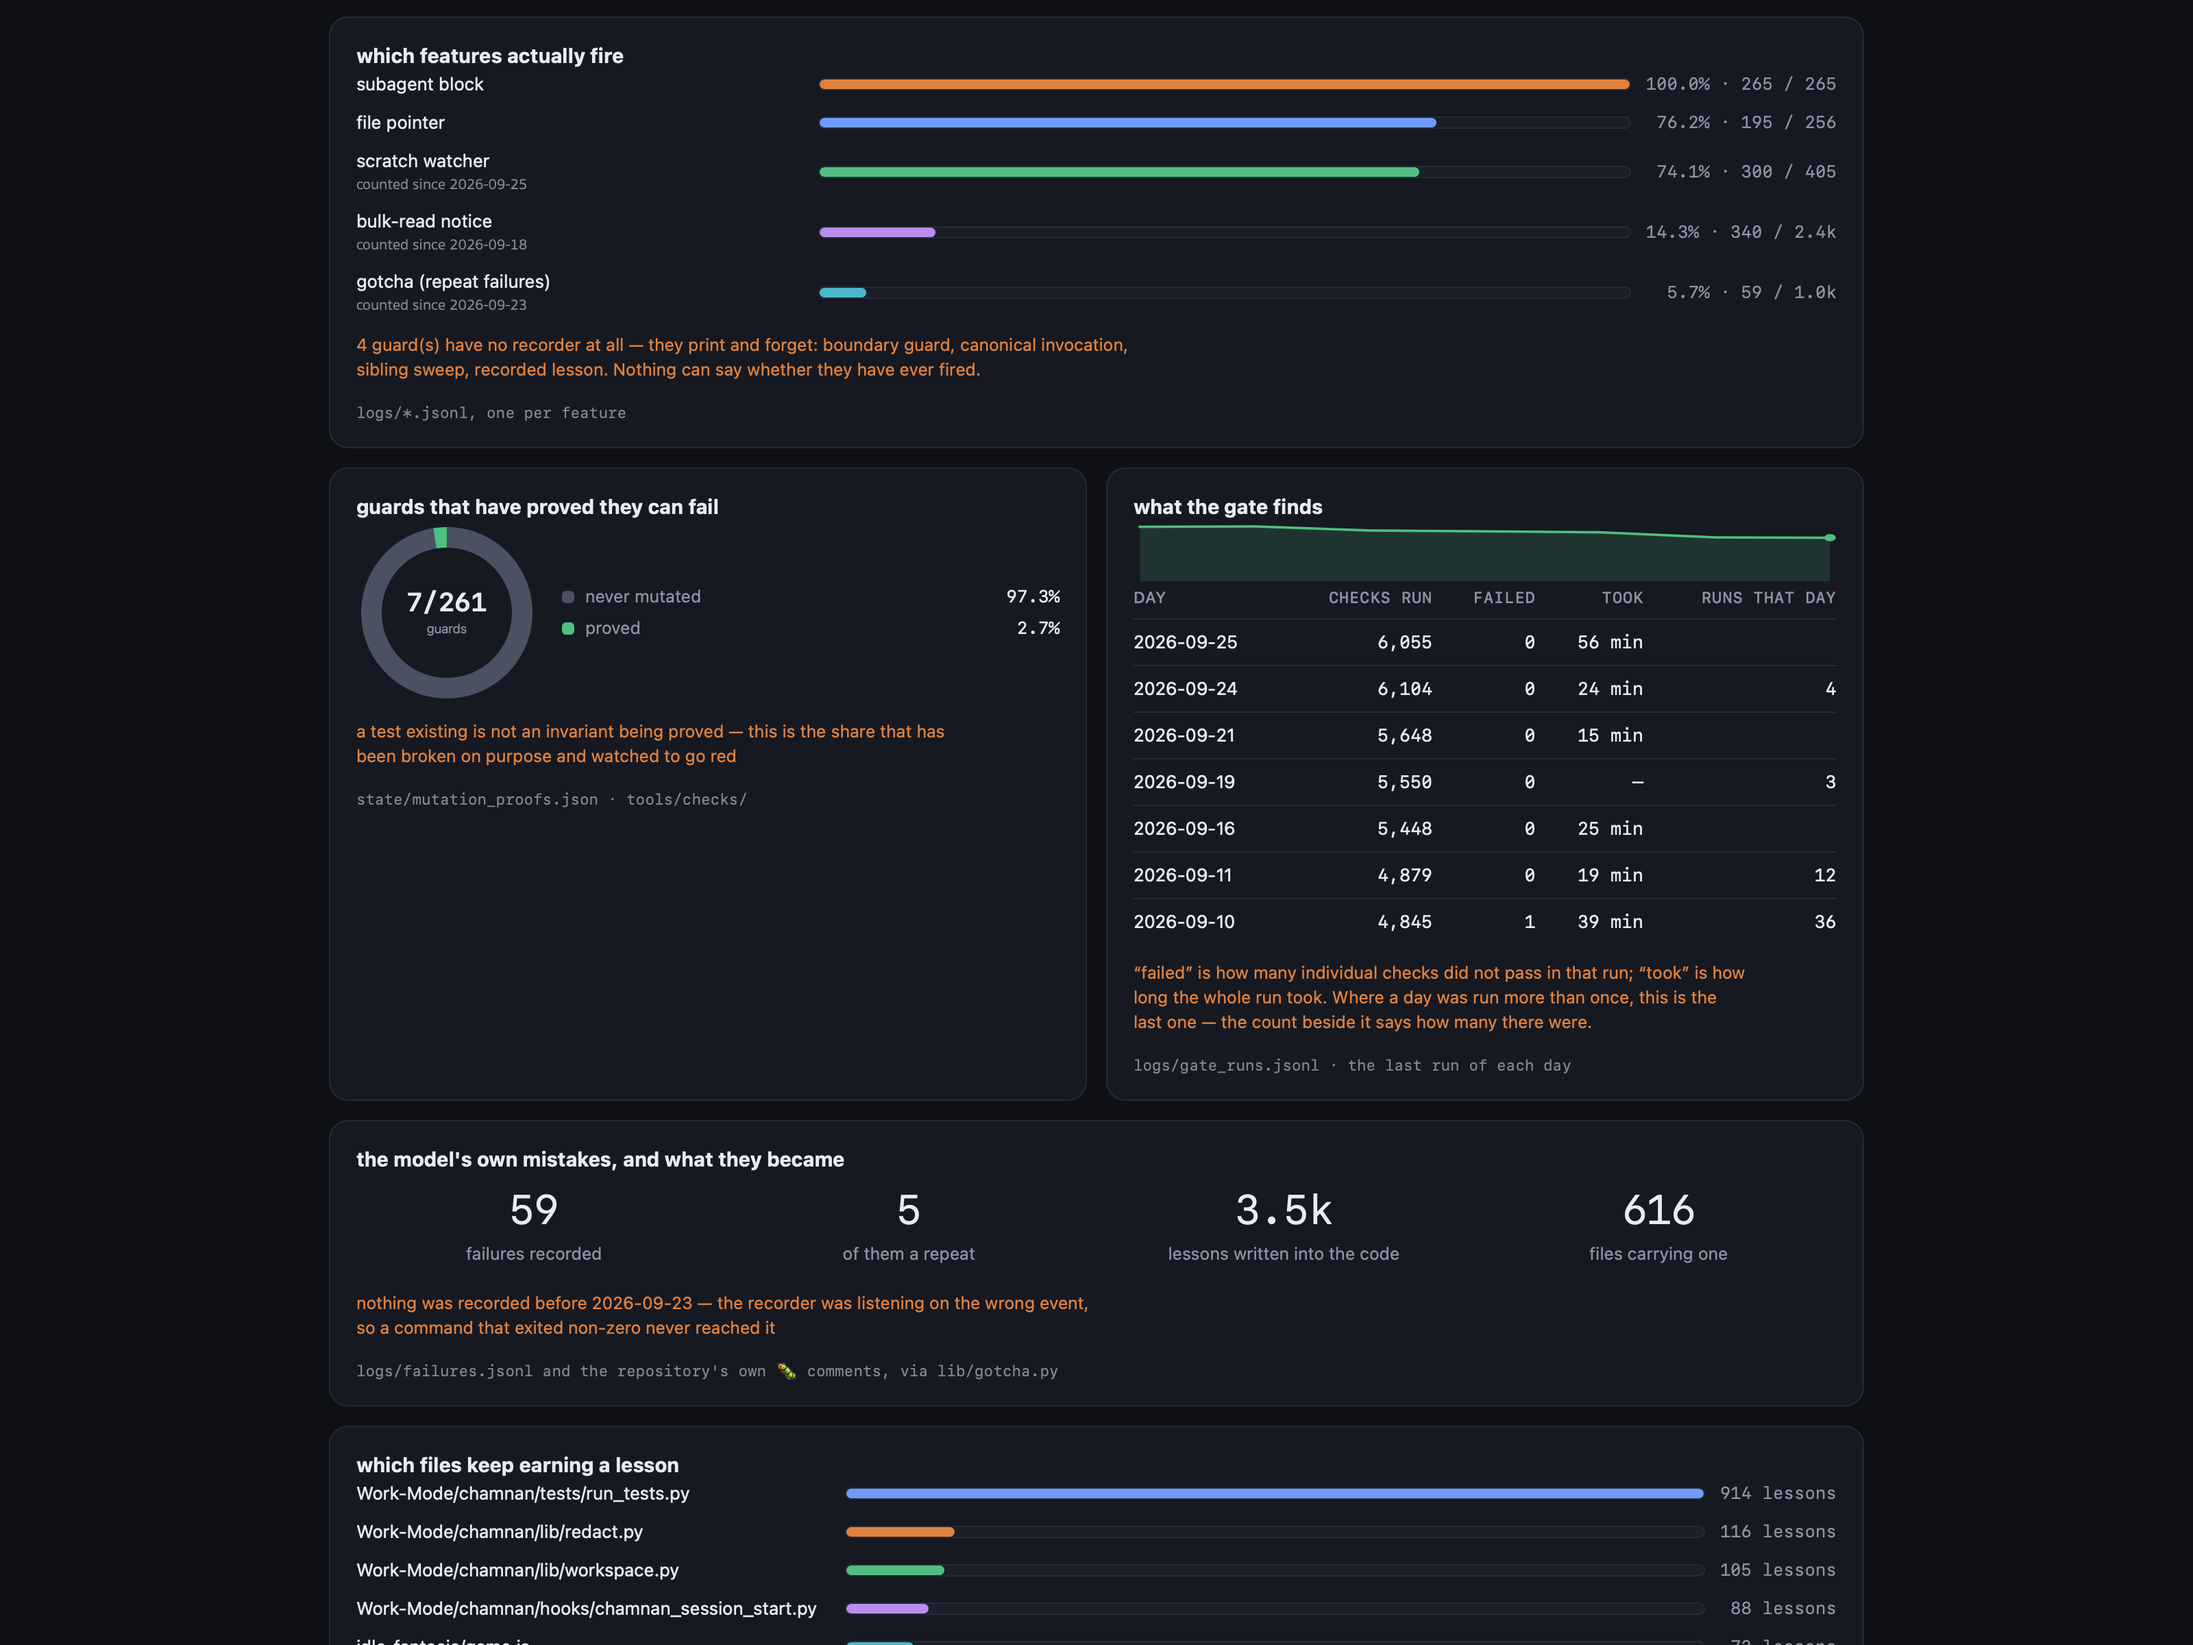
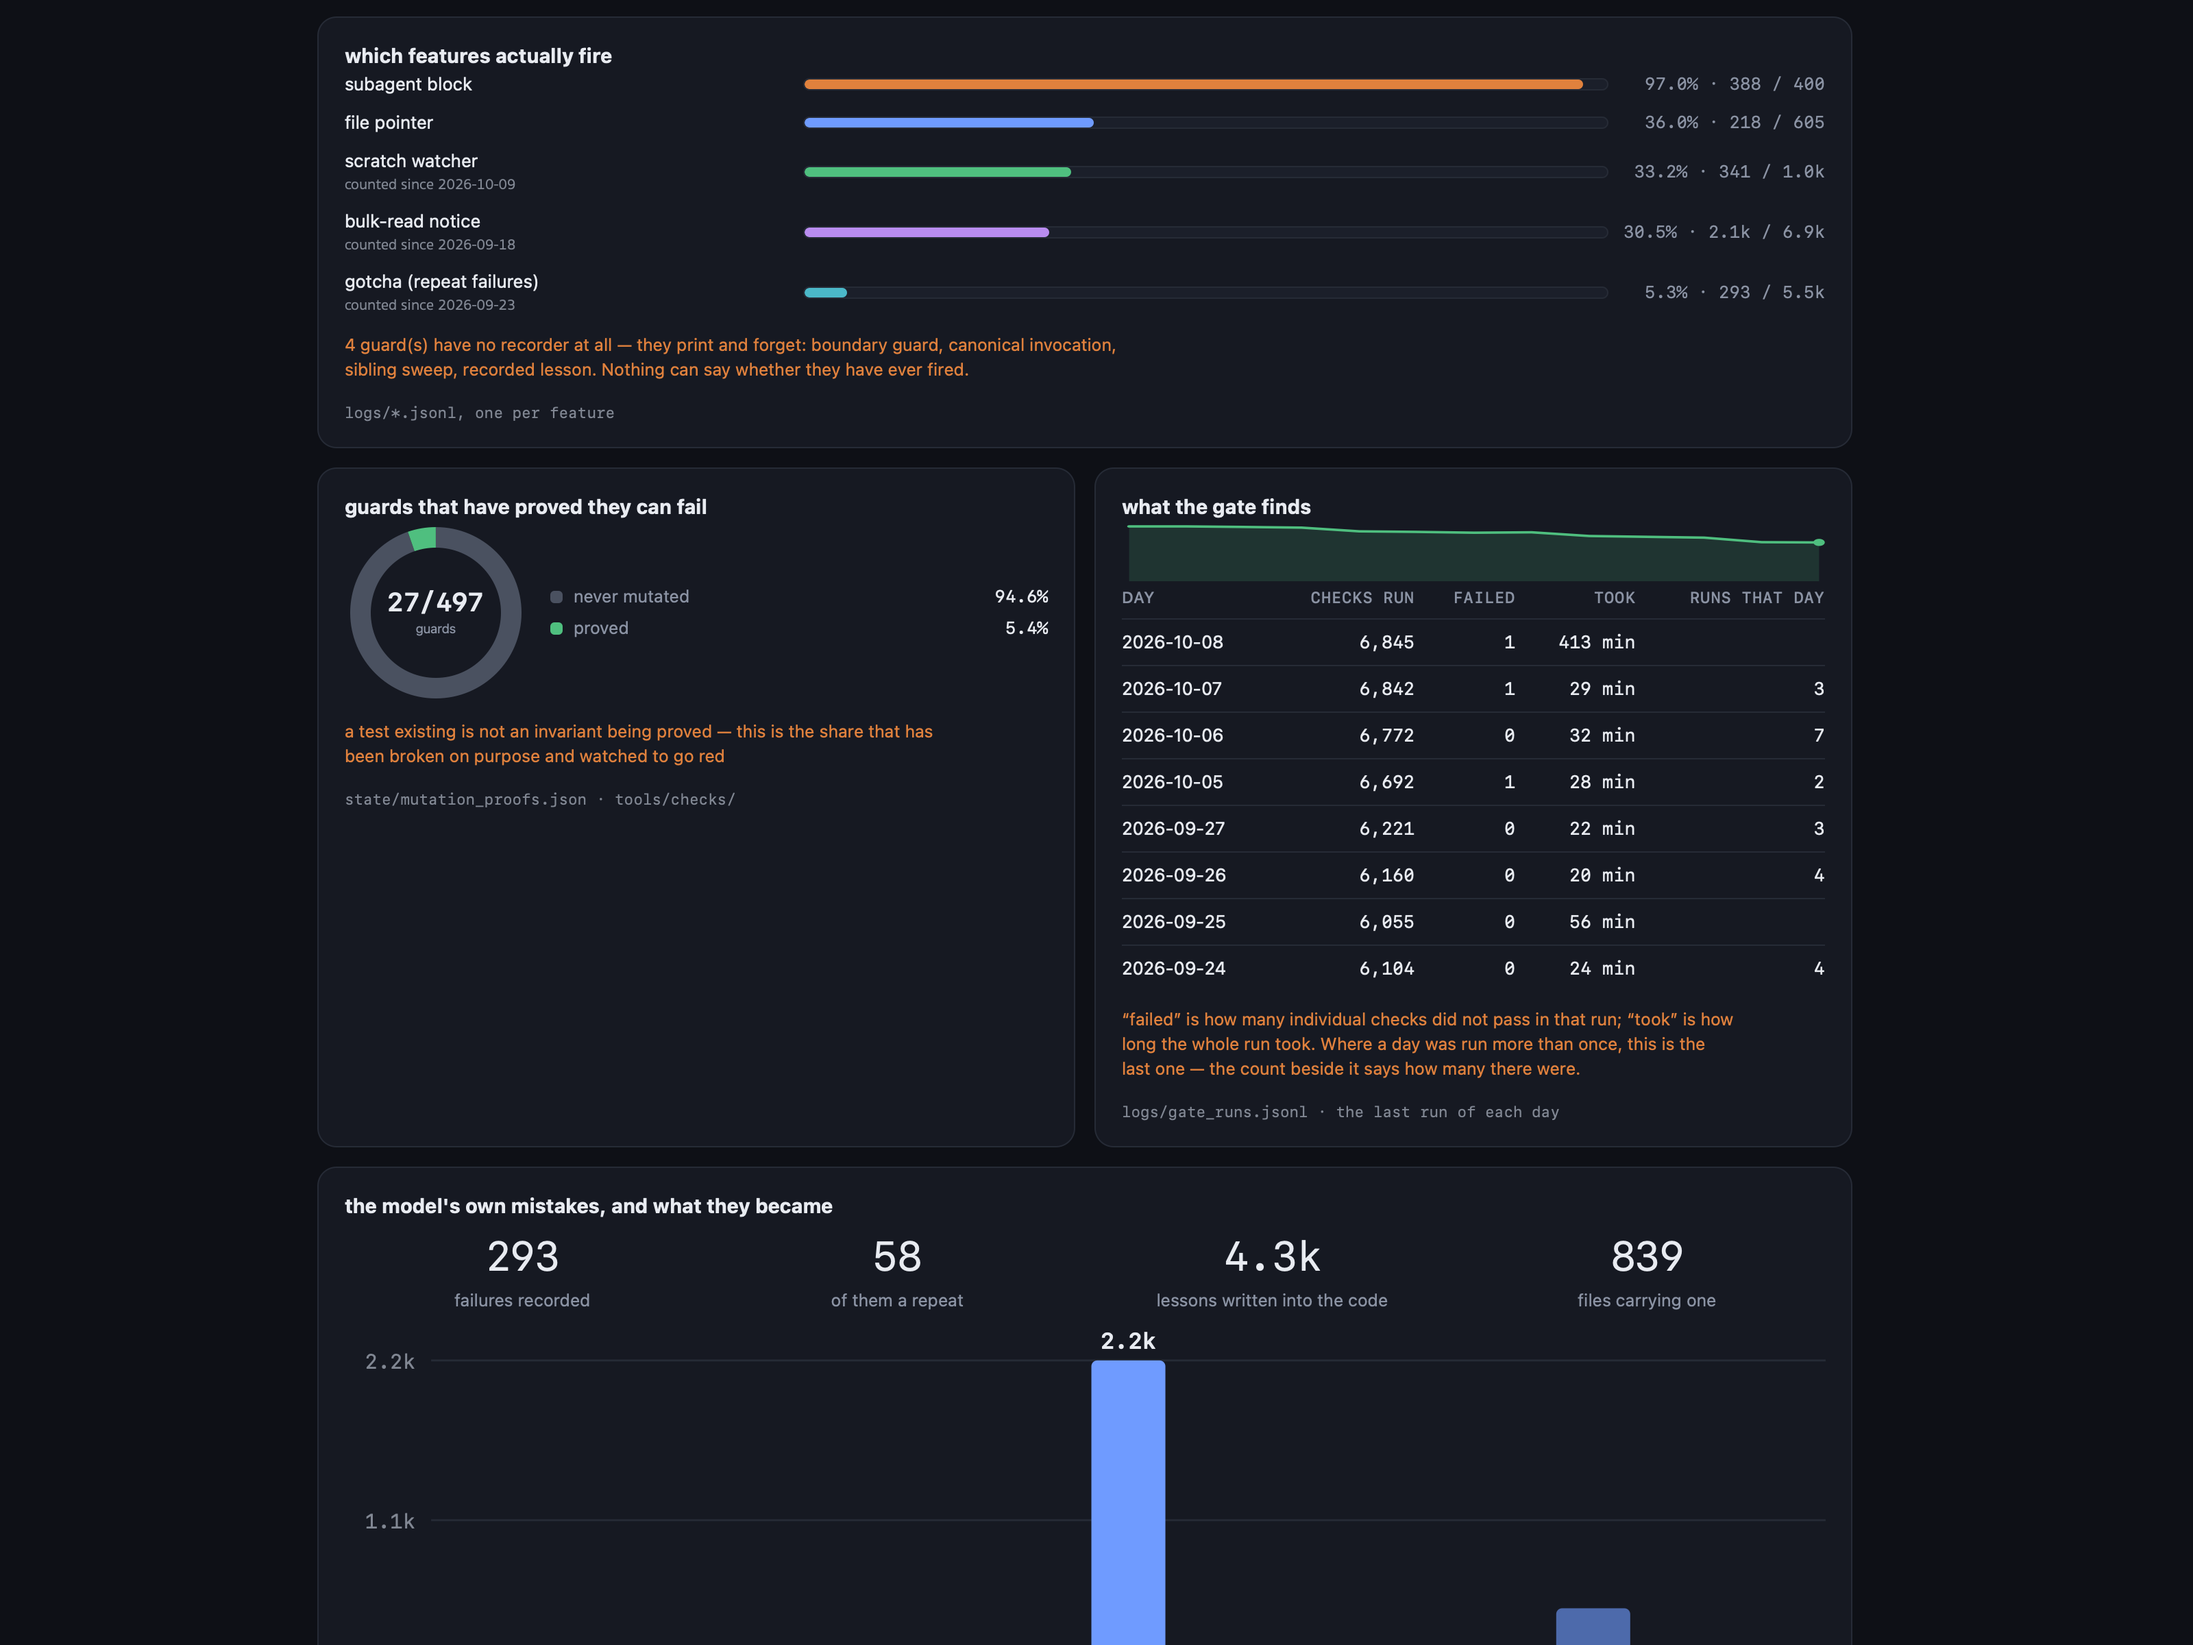
Dashboard: compare only with enough on both sides; README pictures recaptured
Updating the owner's four repositories to 1.36.1 showed the new panel on
Network printing "398% more": the side before the plugin was one day of
10 requests. compare() now records a floor (100 requests over 3 days on
each side) and whether it is met; both pages draw a figure only then and
otherwise say how much there is. Check 522 extended.

The README's seven dashboard pictures are recaptured from the new pages
(2026-10) with the same tool and sizes as before, re-saved losslessly
(pixels compared), and the text beside the first one describes the
before-and-since comparison instead of the local-model share.

diff --git a/statistic/report/index.html b/statistic/report/index.html
@@ -46,7 +46,7 @@ const perReq = (side) => {
 const withPer = perReq("with");
 const withoutPer = perReq("without");
 const withPlugin = weighted(row, R);
-const hasBoth = withPer !== null && withoutPer !== null;
+const hasBoth = withPer !== null && withoutPer !== null && C.enough !== false;
 const without = hasBoth ? Math.round((row.requests || 0) * withoutPer) : withPlugin;
 const savedTok = without - withPlugin;
 const saved = pct(Math.abs(savedTok), without || 1);
@@ -58,7 +58,8 @@ M.append(hero(
     label: hasBoth
       ? (savedTok >= 0 ? T("tokens saved by having the plugin", "โทเค็นที่ประหยัดได้เพราะมีปลั๊กอิน")
                        : T("tokens more than before the plugin", "โทเค็นที่ใช้มากกว่าก่อนมีปลั๊กอิน"))
-      : T("no session before the plugin to compare with", "ยังไม่มี session ก่อนมีปลั๊กอินให้เทียบ"),
+      : (W.requests ? T("too little before the plugin to compare", "ช่วงก่อนมีปลั๊กอินมีข้อมูลน้อยเกินจะเทียบ")
+                    : T("no session before the plugin to compare with", "ยังไม่มี session ก่อนมีปลั๊กอินให้เทียบ")),
     sub: hasBoth ? T(`${saved.toFixed(2)}% of what ${row[key] || "—"} would have weighed without it`,
                      `คิดเป็น ${saved.toFixed(2)}% ของที่ ${row[key] || "—"} จะใช้ถ้าไม่มีปลั๊กอิน`) : "" },
   hasBoth ? [
@@ -79,11 +80,18 @@ M.append(hero(
       + "the model, is in the numbers too.",
       "ทั้งสองช่วงคือ session จริงของ repo นี้ ถ่วงน้ำหนักแบบเดียวกัน (cached read 0.1 เท่า, cache "
       + "write 1.25 เท่า, output 5 เท่า) · สิ่งอื่นที่เปลี่ยนระหว่างสองช่วง เช่น งานหรือโมเดล ก็อยู่ในตัวเลขด้วย"),
+  ] : (W.requests ? [
+    T(`Before the plugin there are only ${n(W.requests)} requests over ${n(W.days)} day(s), and with it `
+      + `${n(Wi.requests || 0)} over ${n(Wi.days || 0)}; a comparison needs at least `
+      + `${n((C.min || {}).requests)} requests over ${n((C.min || {}).days)} days on each side.`,
+      `ช่วงก่อนมีปลั๊กอินมีแค่ ${n(W.requests)} requests ใน ${n(W.days)} วัน และช่วงที่มีปลั๊กอิน `
+      + `${n(Wi.requests || 0)} requests ใน ${n(Wi.days || 0)} วัน · การเทียบต้องมีอย่างน้อย `
+      + `${n((C.min || {}).requests)} requests ใน ${n((C.min || {}).days)} วัน ทั้งสองฝั่ง`),
   ] : [
     T(`Every recorded session in this repository ran with the plugin (since ${C.since || "—"}), so there `
       + "is no before to measure against.",
       `ทุก session ที่บันทึกไว้ของ repo นี้มีปลั๊กอินอยู่แล้ว (ตั้งแต่ ${C.since || "—"}) จึงไม่มีช่วงก่อนให้เทียบ`),
-  ],
+  ]),
   [
     { label: T("with the plugin", "เมื่อมีปลั๊กอิน"), value: withPlugin, colour: PAL[2],
       text: n(withPlugin) },

diff --git a/statistic/report/rates.html b/statistic/report/rates.html
@@ -31,7 +31,7 @@ function recompute() {
   const R = rates();
   const C = S.compare || {};
   const per = (x) => (x && x.requests) ? weighted(x, R) / x.requests : null;
-  const withoutPer = per(C.without);
+  const withoutPer = C.enough === false ? null : per(C.without);
   const withPlugin = weighted(row, R);
   const without = withoutPer === null ? withPlugin : Math.round((row.requests || 0) * withoutPer);
   const avoided = without - withPlugin;

diff --git a/statistic/build_statistic.py b/statistic/build_statistic.py
@@ -1330,7 +1330,19 @@ def compare(days, since=None):
                 sums.update({k: int(row.get(k) or 0) for k in keys})
                 n += 1
         out[side] = dict(sums, days=n)
+    # 🐛 [2026-10-12] (self-measured) On the owner's Network repository the side before the plugin
+    # was one day of 10 requests, and the panel printed "398% more" from it. A comparison is shown
+    # only when each side has at least COMPARE_MIN_REQUESTS requests over COMPARE_MIN_DAYS days;
+    # otherwise the page says how little there is. The floor is low on purpose: the cost of a
+    # wrong headline is a reader trusting it, and the smallest real side seen here was 2,296.
+    out["min"] = {"requests": COMPARE_MIN_REQUESTS, "days": COMPARE_MIN_DAYS}
+    out["enough"] = all(out[s].get("requests", 0) >= COMPARE_MIN_REQUESTS
+                        and out[s].get("days", 0) >= COMPARE_MIN_DAYS for s in ("without", "with"))
     return out
+
+
+COMPARE_MIN_REQUESTS = 100
+COMPARE_MIN_DAYS = 3
 
 
 # ---------------------------------------------------------------- writing

diff --git a/README.md b/README.md
@@ -621,17 +621,17 @@ file each one reads. It rebuilds itself at the end of every session, into your r
 
 **The pictures below come from the repository chamnan is built in, not from a typical one.** The
 same files there are read again and again, and most of its tokens go into research rounds — reading
-outside work to find ideas and things worth fixing in chamnan. That is why its headline is small:
-0.42% in the month shown. Yours will be different, in either direction, and the page shows your
-own figure rather than this one.
+outside work to find ideas and things worth fixing in chamnan. In the month shown its sessions used
+11.9% fewer weighted tokens per request than before the plugin arrived. Yours will be different, in
+either direction, and the page shows your own figure rather than this one.
 
 <img src="docs/dashboard/1-impact-hero.png" alt="The impact page: tokens saved by having the plugin, what kind of token each one was, what the repository puts in front of a session, and what the plugin did that would not have happened otherwise." width="100%">
 
-The headline counts what a local model read instead of the session — where your own tooling runs
-one and records it; the plugin does not call a model itself — weighted the way a cache write is
-weighted. How much of that the session would otherwise have read itself is not something the
-plugin can know, so it is a setting, not a finding: page 4 is where you set it, and the headline
-follows.
+The headline compares your own sessions: the days before the plugin first ran in the repository
+against the days since, each as weighted tokens per request, with the chosen month priced at both
+rates. It is real usage rather than a model of it, so it also carries whatever else changed between
+the two periods, such as the work or the model, and the page says so beside it. A repository with
+too little history from before the plugin shows no figure, and says how much there is.
 
 | | |
 |---|---|

diff --git a/CHANGELOG.md b/CHANGELOG.md
@@ -21,6 +21,11 @@ already reports the last released number while running newer code.
 
 ## Unreleased
 
+- **The dashboard shows a before-and-since comparison only when both sides have enough to compare.**
+  One repository had a single day of 10 requests from before the plugin, and the panel printed
+  "398% more" from it. Each side now needs at least 100 requests over 3 days; below that the panel
+  says how much there is. The README's dashboard pictures are recaptured from the new pages.
+
 ## What's new in 1.36.1
 
 _A patch on top of 1.36.0: two fixes found by testing it against other tools in its space, and a dashboard that answers its first question with real usage._
